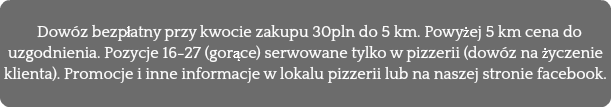
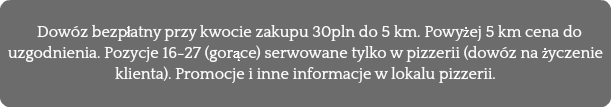
gfdg

Changed region(s): [[0.0, 0.6168, 0.9951, 0.785]]

diff --git a/css/index.css b/css/index.css
@@ -1,1 +1,1 @@
-.version.index{color:#0000E9;background-color:#16DD76;}#muse_css_mq{background-color:#FFFFFF;}#page{z-index:1;width:960px;min-height:2511px;background-image:none;border-width:0px;border-color:#000000;background-color:transparent;margin-left:auto;margin-right:auto;}#pu1910{z-index:2;width:0.01px;margin-right:-10000px;margin-left:-17px;}#u1910{z-index:2;width:808px;border-style:solid;border-width:2px;border-color:#000000;background-color:transparent;position:relative;margin-right:-10000px;margin-top:32px;left:109px;}#u761{z-index:4;-webkit-transform:matrix(-1,0,0,-1,227,637);-ms-transform:matrix(-1,0,0,-1,227,637);transform:matrix(-1,0,0,-1,227,637);position:relative;margin-right:-10000px;width:227px;margin-top:48px;}#u761_img{display:block;vertical-align:top;}#u385-267{z-index:6;display:block;vertical-align:top;position:relative;margin-right:-10000px;margin-top:332px;left:66px;}#u1498-6{z-index:273;width:849px;min-height:49px;box-shadow:6px 6px 8px rgba(0,0,0,0.21);border-style:solid;border-width:2px;border-color:#000000;background-color:#FFFFFF;border-radius:47px;font-size:41px;text-align:center;line-height:49px;font-family:quattrocento-sans, sans-serif;font-weight:700;position:relative;margin-right:-10000px;margin-top:-1px;left:83px;}#u1498-2{color:#ED0000;}#u1822{z-index:279;width:853px;background-color:#000000;padding-bottom:5px;position:relative;margin-right:-10000px;margin-top:571px;left:67px;}#u315-4{z-index:280;width:76px;min-height:37px;background-color:transparent;color:#FFFFFF;font-size:31px;text-align:left;line-height:37px;font-family:overlock-sc, sans-serif;font-weight:400;position:relative;margin-right:-10000px;margin-top:4px;left:388px;}#u1831{z-index:284;width:66px;background-color:transparent;position:relative;margin-right:-10000px;margin-top:658px;left:460px;}#u1851{z-index:286;width:287px;height:4px;background-color:#000000;position:relative;margin-right:-10000px;margin-top:1924px;left:67px;}#u1854{z-index:287;width:287px;height:4px;background-color:#000000;position:relative;margin-right:-10000px;margin-top:1924px;left:633px;}#u1857{z-index:288;width:287px;background-color:#000000;position:relative;margin-right:-10000px;margin-top:2208px;left:170px;}#u1863{z-index:290;width:287px;height:4px;background-color:#000000;position:relative;margin-right:-10000px;left:-102px;}#u1860{z-index:289;width:287px;background-color:#000000;position:relative;margin-right:-10000px;margin-top:2208px;left:540px;}#u1866{z-index:291;width:287px;height:4px;background-color:#000000;position:relative;margin-right:-10000px;left:93px;}#u1869{z-index:292;width:66px;background-color:transparent;position:relative;margin-right:-10000px;margin-top:1880px;left:464px;}#u1879{z-index:301;width:287px;background-color:#000000;position:relative;margin-right:-10000px;margin-top:701px;left:67px;}#u1882{z-index:302;width:287px;height:4px;background-color:#000000;position:relative;margin-right:-10000px;left:97px;}#u1885{z-index:303;width:253px;height:4px;background-color:#000000;position:relative;margin-right:-10000px;margin-top:701px;left:532px;}#u1920{z-index:304;width:66px;background-color:transparent;position:relative;margin-right:-10000px;margin-top:2166px;left:464px;}#u1927{z-index:306;display:block;vertical-align:top;position:relative;margin-right:-10000px;margin-top:67px;left:27px;}#u1942-4{z-index:308;width:128px;min-height:39px;background-color:transparent;font-size:26px;text-align:right;line-height:31px;font-family:overlock-sc, sans-serif;font-weight:400;position:relative;margin-right:-10000px;margin-top:682px;left:785px;}#u1945-4{z-index:312;width:853px;min-height:22px;background-color:#000000;color:#FFFFFF;font-size:16px;text-align:center;line-height:19px;font-family:overlock-sc, sans-serif;font-weight:400;position:relative;margin-right:-10000px;margin-top:1829px;left:67px;}#u2162{z-index:316;width:100px;min-height:100px;border-width:0px;border-color:transparent;background-color:transparent;position:relative;margin-right:-10000px;margin-top:476px;left:719px;}#u2500{z-index:318;width:853px;border-color:#000000;background-color:#FFFFFF;border-radius:10px 0px 0px 0px ;position:relative;margin-right:-10000px;margin-top:332px;left:67px;}#u2500::before{content:"";position:absolute;pointer-events:none;top:0px;left:0px;bottom:0px;right:0px;border-radius:10px 0px 0px 0px ;box-shadow:inset 3px 3px 4px rgba(255,255,255,0.64), inset -3px -3px 4px rgba(0,0,0,0.64);}#u2500:hover{width:853px;min-height:0px;margin:332px -10000px 0px 0px;}#u2500:hover::before{content:"";position:absolute;pointer-events:none;border-radius:10px 0px 0px 0px ;box-shadow:none;}#u2500::before .clip_frame,#u2500 .clip_frame,#u2500:hover::before .clip_frame{-webkit-border-radius:10px 0px 0px 0px;}#u2153-9{z-index:320;width:375px;min-height:94px;text-shadow:6px 6px 8px rgba(255,255,255,0);box-shadow:none;background-color:transparent;font-size:23px;position:relative;margin-right:-10000px;margin-top:340px;left:506px;}#u2153{line-height:28px;}#u2153-2{line-height:32px;}#u2153-3{color:#006837;line-height:32px;}#u2153-5,#u2153-7{text-align:center;line-height:0px;}#u2153-4,#u2153-6{font-size:24px;line-height:33px;}#u2730-4{z-index:329;width:72px;min-height:36px;background-color:transparent;font-size:29px;line-height:35px;font-family:overlock-sc, sans-serif;font-weight:400;position:relative;margin-right:-10000px;margin-top:685px;left:458px;}#u2856-4{z-index:337;width:295px;min-height:27px;background-color:transparent;line-height:34px;position:relative;margin-right:-10000px;margin-top:472px;left:550px;}#pu2177{z-index:317;width:0.01px;margin-right:-10000px;margin-top:377px;margin-left:945px;}#u2177{z-index:317;width:100px;min-height:100px;border-width:0px;border-color:transparent;background-color:transparent;position:relative;}#u2851{z-index:336;width:100px;min-height:100px;border-width:0px;border-color:transparent;background-color:transparent;margin-top:105px;position:relative;}.css_verticalspacer .verticalspacer{height:calc(100vh - 2570px);}#u1876{z-index:294;width:851px;border-style:solid;border-width:2px;border-color:#000000;opacity:1;-ms-filter:"progid:DXImageTransform.Microsoft.Alpha(Opacity=100)";filter:alpha(opacity=100);padding-bottom:15px;margin-bottom:-62px;position:relative;margin-right:-10000px;margin-top:-17px;left:50px;background:#000000 url("../images/wood_floor_by_gnrbishop%20(1).jpg?crc=200766622") no-repeat center center;background-size:cover;}#u1876::before{content:"";position:absolute;pointer-events:none;top:-2px;left:-2px;bottom:-2px;right:-2px;box-shadow:inset 3px 3px 4px rgba(255,255,255,0.56), inset -3px -3px 4px rgba(0,0,0,0.56);}#u616-6{z-index:295;display:block;vertical-align:top;position:relative;margin-right:-10000px;margin-top:15px;left:24px;}#pu1412{z-index:333;width:0.01px;padding-bottom:0px;margin-right:-10000px;margin-top:15px;margin-left:673px;}#u1412{z-index:333;width:140px;background-color:transparent;position:relative;}#u1412::before{content:"";position:absolute;pointer-events:none;top:0px;left:0px;bottom:0px;right:0px;box-shadow:inset 3px 3px 4px rgba(255,255,255,0.75), inset -3px -3px 4px rgba(0,0,0,0.75);}#u1412:hover{width:140px;min-height:0px;margin:0px;}#u1412:hover::before{content:"";position:absolute;pointer-events:none;top:0px;left:0px;bottom:0px;right:0px;box-shadow:inset 0px 0px 8px rgba(0,0,0,0.88), inset 0px 0px 8px rgba(0,0,0,0.88);}#u2838{z-index:335;width:86px;min-height:39px;border-width:0px;border-color:transparent;background-color:transparent;margin-top:13px;position:relative;}.html{background:#FFFFFF url("../images/new%20blurred.jpg?crc=469343208") no-repeat center top fixed;}body{position:relative;min-width:960px;padding-bottom:64px;}.verticalspacer{min-height:5px;}
+.version.index{color:#00000A;background-color:#34B3C2;}#muse_css_mq{background-color:#FFFFFF;}#page{z-index:1;width:960px;min-height:2511px;background-image:none;border-width:0px;border-color:#000000;background-color:transparent;margin-left:auto;margin-right:auto;}#pu1910{z-index:2;width:0.01px;margin-right:-10000px;margin-left:-17px;}#u1910{z-index:2;width:808px;border-style:solid;border-width:2px;border-color:#000000;background-color:transparent;position:relative;margin-right:-10000px;margin-top:32px;left:109px;}#u761{z-index:4;-webkit-transform:matrix(-1,0,0,-1,227,637);-ms-transform:matrix(-1,0,0,-1,227,637);transform:matrix(-1,0,0,-1,227,637);position:relative;margin-right:-10000px;width:227px;margin-top:48px;}#u761_img{display:block;vertical-align:top;}#u385-267{z-index:6;display:block;vertical-align:top;position:relative;margin-right:-10000px;margin-top:332px;left:66px;}#u1498-6{z-index:273;width:849px;min-height:49px;box-shadow:6px 6px 8px rgba(0,0,0,0.21);border-style:solid;border-width:2px;border-color:#000000;background-color:#FFFFFF;border-radius:47px;line-height:49px;font-size:41px;text-align:center;font-family:quattrocento-sans, sans-serif;font-weight:700;position:relative;margin-right:-10000px;margin-top:-1px;left:83px;}#u1498-2{color:#ED0000;}#u1822{z-index:279;width:853px;background-color:#000000;padding-bottom:5px;position:relative;margin-right:-10000px;margin-top:571px;left:67px;}#u315-4{z-index:280;width:76px;min-height:37px;background-color:transparent;color:#FFFFFF;line-height:37px;font-size:31px;text-align:left;font-family:overlock-sc, sans-serif;font-weight:400;position:relative;margin-right:-10000px;margin-top:4px;left:388px;}#u1831{z-index:284;width:66px;background-color:transparent;position:relative;margin-right:-10000px;margin-top:658px;left:460px;}#u1851{z-index:286;width:287px;height:4px;background-color:#000000;position:relative;margin-right:-10000px;margin-top:1924px;left:67px;}#u1854{z-index:287;width:287px;height:4px;background-color:#000000;position:relative;margin-right:-10000px;margin-top:1924px;left:633px;}#u1857{z-index:288;width:287px;background-color:#000000;position:relative;margin-right:-10000px;margin-top:2208px;left:170px;}#u1863{z-index:290;width:287px;height:4px;background-color:#000000;position:relative;margin-right:-10000px;left:-102px;}#u1860{z-index:289;width:287px;background-color:#000000;position:relative;margin-right:-10000px;margin-top:2208px;left:540px;}#u1866{z-index:291;width:287px;height:4px;background-color:#000000;position:relative;margin-right:-10000px;left:93px;}#u1869{z-index:292;width:66px;background-color:transparent;position:relative;margin-right:-10000px;margin-top:1880px;left:464px;}#u1879{z-index:301;width:287px;background-color:#000000;position:relative;margin-right:-10000px;margin-top:701px;left:67px;}#u1882{z-index:302;width:287px;height:4px;background-color:#000000;position:relative;margin-right:-10000px;left:97px;}#u1885{z-index:303;width:253px;height:4px;background-color:#000000;position:relative;margin-right:-10000px;margin-top:701px;left:532px;}#u1920{z-index:304;width:66px;background-color:transparent;position:relative;margin-right:-10000px;margin-top:2166px;left:464px;}#u1927{z-index:306;display:block;vertical-align:top;position:relative;margin-right:-10000px;margin-top:71px;left:27px;}#u1942-4{z-index:308;width:128px;min-height:39px;background-color:transparent;line-height:31px;font-size:26px;text-align:right;font-family:overlock-sc, sans-serif;font-weight:400;position:relative;margin-right:-10000px;margin-top:682px;left:785px;}#u1945-4{z-index:312;width:853px;min-height:22px;background-color:#000000;color:#FFFFFF;line-height:19px;font-size:16px;text-align:center;font-family:overlock-sc, sans-serif;font-weight:400;position:relative;margin-right:-10000px;margin-top:1829px;left:67px;}#u2162{z-index:316;width:100px;min-height:100px;border-width:0px;border-color:transparent;background-color:transparent;position:relative;margin-right:-10000px;margin-top:476px;left:719px;}#u2500{z-index:318;width:853px;border-color:#000000;background-color:#FFFFFF;border-radius:10px 0px 0px 0px ;position:relative;margin-right:-10000px;margin-top:332px;left:67px;}#u2500::before{content:"";position:absolute;pointer-events:none;top:0px;left:0px;bottom:0px;right:0px;border-radius:10px 0px 0px 0px ;box-shadow:inset 3px 3px 4px rgba(255,255,255,0.64), inset -3px -3px 4px rgba(0,0,0,0.64);}#u2500::before .clip_frame,#u2500 .clip_frame{-webkit-border-radius:10px 0px 0px 0px;}#u2153-11{z-index:320;width:375px;min-height:94px;text-shadow:6px 6px 8px rgba(255,255,255,0);box-shadow:none;background-color:transparent;font-size:23px;position:relative;margin-right:-10000px;margin-top:340px;left:506px;}#u2153{line-height:28px;}#u2153-2{line-height:32px;}#u2153-3{color:#006837;line-height:32px;}#u2153-4{font-size:24px;color:#009245;line-height:33px;}#u2153-6,#u2153-9{text-align:center;line-height:0px;}#u2153-7{font-size:24px;color:#C1272D;line-height:33px;}#u2153-5,#u2153-8{font-size:24px;line-height:33px;}#u2730-4{z-index:331;width:72px;min-height:36px;background-color:transparent;font-size:29px;line-height:35px;font-family:overlock-sc, sans-serif;font-weight:400;position:relative;margin-right:-10000px;margin-top:685px;left:458px;}#u2856-4{z-index:338;width:295px;min-height:27px;background-color:transparent;line-height:34px;position:relative;margin-right:-10000px;margin-top:472px;left:550px;}#pu2177{z-index:317;width:0.01px;margin-right:-10000px;margin-top:377px;margin-left:945px;}#u2177{z-index:317;width:100px;min-height:100px;border-width:0px;border-color:transparent;background-color:transparent;position:relative;}#u2851{z-index:337;width:100px;min-height:100px;border-width:0px;border-color:transparent;background-color:transparent;margin-top:105px;position:relative;}.css_verticalspacer .verticalspacer{height:calc(100vh - 2570px);}#u1876{z-index:294;width:851px;border-style:solid;border-width:2px;border-color:#000000;opacity:1;-ms-filter:"progid:DXImageTransform.Microsoft.Alpha(Opacity=100)";filter:alpha(opacity=100);padding-bottom:15px;margin-bottom:-62px;position:relative;margin-right:-10000px;margin-top:-17px;left:49px;background:#000000 url("../images/wood_floor_by_gnrbishop%20(1).jpg?crc=200766622") no-repeat center center;background-size:cover;}#u1876::before{content:"";position:absolute;pointer-events:none;top:-2px;left:-2px;bottom:-2px;right:-2px;box-shadow:inset 3px 3px 4px rgba(255,255,255,0.56), inset -3px -3px 4px rgba(0,0,0,0.56);}#u616-6{z-index:295;display:block;vertical-align:top;position:relative;margin-right:-10000px;margin-top:15px;left:25px;}#u1412{z-index:335;width:140px;background-color:transparent;position:relative;margin-right:-10000px;margin-top:15px;left:674px;}#u1412::before{content:"";position:absolute;pointer-events:none;top:0px;left:0px;bottom:0px;right:0px;box-shadow:inset 3px 3px 4px rgba(255,255,255,0.75), inset -3px -3px 4px rgba(0,0,0,0.75);}#u1412:hover{width:140px;min-height:0px;margin:15px -10000px 0px 0px;}#u1412:hover::before{content:"";position:absolute;pointer-events:none;top:0px;left:0px;bottom:0px;right:0px;box-shadow:inset 0px 0px 8px rgba(0,0,0,0.88), inset 0px 0px 8px rgba(0,0,0,0.88);}.html{background:#FFFFFF url("../images/new%20blurred.jpg?crc=469343208") no-repeat center top fixed;}body{position:relative;min-width:960px;padding-bottom:64px;}.verticalspacer{min-height:5px;}

diff --git a/index.html b/index.html
@@ -16,7 +16,7 @@ if(typeof Muse == "undefined") window.Muse = {}; window.Muse.assets = {"required
   <title>Domowa</title>
   <!-- CSS -->
   <link rel="stylesheet" type="text/css" href="css/site_global.css?crc=4214341673"/>
-  <link rel="stylesheet" type="text/css" href="css/index.css?crc=3910589814" id="pagesheet"/>
+  <link rel="stylesheet" type="text/css" href="css/index.css?crc=171226050" id="pagesheet"/>
   <!-- Other scripts -->
   <script type="text/javascript">
    var __adobewebfontsappname__ = "muse";
@@ -49,17 +49,6 @@ if(typeof Muse == "undefined") window.Muse = {}; window.Muse.assets = {"required
 
 
 
-
-<div id="fb-root"></div>
-<script>
-(function(d, s, id) {
-  var js, fjs = d.getElementsByTagName(s)[0];
-  if (d.getElementById(id)) return;
-  js = d.createElement(s); js.id = id;
-  js.src = "//connect.facebook.net/pl_PL/all.js#xfbml=1";
-  fjs.parentNode.insertBefore(js, fjs);
-}(document, 'script', 'facebook-jssdk'));
-</script>
 
   
   <div class="clearfix" id="page"><!-- group -->
@@ -112,10 +101,10 @@ if(typeof Muse == "undefined") window.Muse = {}; window.Muse.assets = {"required
     <div class="rounded-corners clip_frame grpelem" id="u2500"><!-- image -->
      <img class="block" id="u2500_img" src="images/godziny%20i%20promocje.jpg?crc=3770986942" alt="" width="853" height="239"/>
     </div>
-    <div class="order clearfix grpelem" id="u2153-9"><!-- content -->
+    <div class="order clearfix grpelem" id="u2153-11"><!-- content -->
      <p id="u2153">&nbsp;</p>
-     <p id="u2153-5"><span id="u2153-2">&nbsp;&nbsp; </span><span id="u2153-3"> </span><span id="u2153-4">ZAMÓW WCZEŚNIEJ PIZZE NA</span></p>
-     <p id="u2153-7"><span id="u2153-6">WYBRANĄ GODZINĘ</span></p>
+     <p id="u2153-6"><span id="u2153-2">&nbsp;&nbsp; </span><span id="u2153-3"> </span><span id="u2153-4">ZAMÓW WCZEŚNIEJ PIZZE NA</span><span id="u2153-5"></span></p>
+     <p id="u2153-9"><span id="u2153-7">WYBRANĄ GODZINĘ</span><span id="u2153-8"></span></p>
     </div>
     <div class="clearfix grpelem" id="u2730-4"><!-- content -->
      <p>PIZZA</p>
@@ -132,15 +121,8 @@ if(typeof Muse == "undefined") window.Muse = {}; window.Muse.assets = {"required
    </div>
    <div class="verticalspacer" data-offset-top="2444" data-content-above-spacer="2444" data-content-below-spacer="126"></div>
    <div class="museBGSize clearfix grpelem" id="u1876"><!-- group -->
-    <img class="grpelem" id="u616-6" alt="&nbsp;Dowóz bezpłatny przy kwocie zakupu 30pln do 5 km. Powyżej 5 km cena do uzgodnienia. Pozycje 16-27 (gorące) serwowane tylko w pizzerii (dowóz na życzenie klienta). Promocje i inne informacje w lokalu pizzerii lub na naszej stronie facebook. " width="611" height="107" src="images/u616-6.png?crc=25731568"/><!-- rasterized frame -->
-    <div class="clearfix grpelem" id="pu1412"><!-- column -->
-     <a class="nonblock nontext shadow clip_frame colelem" id="u1412" href="https://www.facebook.com/Na-sianie-Pizzeria-177656039307698/" target="_blank"><!-- image --><img class="block" id="u1412_img" src="images/facebook_2015_logo_detail.jpg?crc=145098300" alt="" width="140" height="49"/></a>
-     <div class="size_fixed colelem" id="u2838"><!-- custom html -->
-      
-<div class="fb-like" data-href="http://www.nasianiepizzeria.pl/index.html" data-send="false" data-width="86" data-show-faces="false" data-colorscheme="light" data-layout="button_count" data-action="recommend"></div>
-
-     </div>
-    </div>
+    <img class="grpelem" id="u616-6" alt="&nbsp;Dowóz bezpłatny przy kwocie zakupu 30pln do 5 km. Powyżej 5 km cena do uzgodnienia. Pozycje 16-27 (gorące) serwowane tylko w pizzerii (dowóz na życzenie klienta). Promocje i inne informacje w lokalu pizzerii. " width="611" height="107" src="images/u616-6.png?crc=4008972423"/><!-- rasterized frame -->
+    <a class="nonblock nontext shadow clip_frame grpelem" id="u1412" href="https://www.facebook.com/Na-sianie-Pizzeria-177656039307698/" target="_blank"><!-- image --><img class="block" id="u1412_img" src="images/facebook_2015_logo_detail.jpg?crc=145098300" alt="" width="140" height="49"/></a>
    </div>
   </div>
   <!-- JS includes -->
